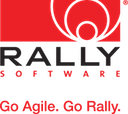
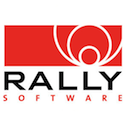
updated to the manifest/options page/image to make things a little more consistent

diff --git a/options.html b/options.html
@@ -10,7 +10,7 @@
         .exp { font-size: 14px; }
         div { padding: 20px 0 0 20px; }
     </style>
-    <title>Rally Artifact Linker Options</title>
+    <title>Rally - Artifact Linker Options</title>
 </head>
 
 <body>
